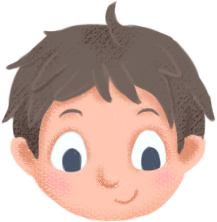
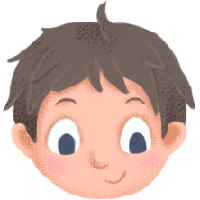
图标更新和逻辑优化

diff --git a/Terry/js/demo1.js b/Terry/js/demo1.js
@@ -54,9 +54,9 @@ $(function () {
 
   // js控制捕食者初始化left,top,并保存，以便再次初始化；
   let rootFontSize = parseInt($('html').css('fontSize'));
-  let eaterFontScale = 250;
-  $eater.width(299 * rootFontSize / eaterFontScale);
-  $eater.height(262 * rootFontSize / eaterFontScale);
+  let eaterFontScale = 160;
+  $eater.width(200 * rootFontSize / eaterFontScale);
+  $eater.height(200 * rootFontSize / eaterFontScale);
   let eaterWidth = $eater.width(); // 捕食者宽度
   let eaterHeight = $eater.height(); // 捕食者高度
   let windowWidth = $(window).width(); // 视口宽度

diff --git a/Terry/css/demo1.less b/Terry/css/demo1.less
@@ -29,10 +29,10 @@ body::-webkit-scrollbar {
 
     #eaterIcon {
       position: absolute;
-      //width: 299/@rem/8;
-      //height: 262/@rem/8;
-      left: -899/@rem/8/2;
-      top: -262/@rem/8/2;
+      //width: 200/@rem/8;
+      //height: 200/@rem/8;
+      //left: -899/@rem/8/2;
+      //top: -262/@rem/8/2;
       z-index: 2;
     }
 

diff --git a/Terry/css/demo1.css b/Terry/css/demo1.css
@@ -21,8 +21,6 @@ body::-webkit-scrollbar {
 }
 .index-wrapper #contentBox #eaterIcon {
   position: absolute;
-  left: -1.49833333rem;
-  top: -0.43666667rem;
   z-index: 2;
 }
 .index-wrapper #contentBox .partItem {
